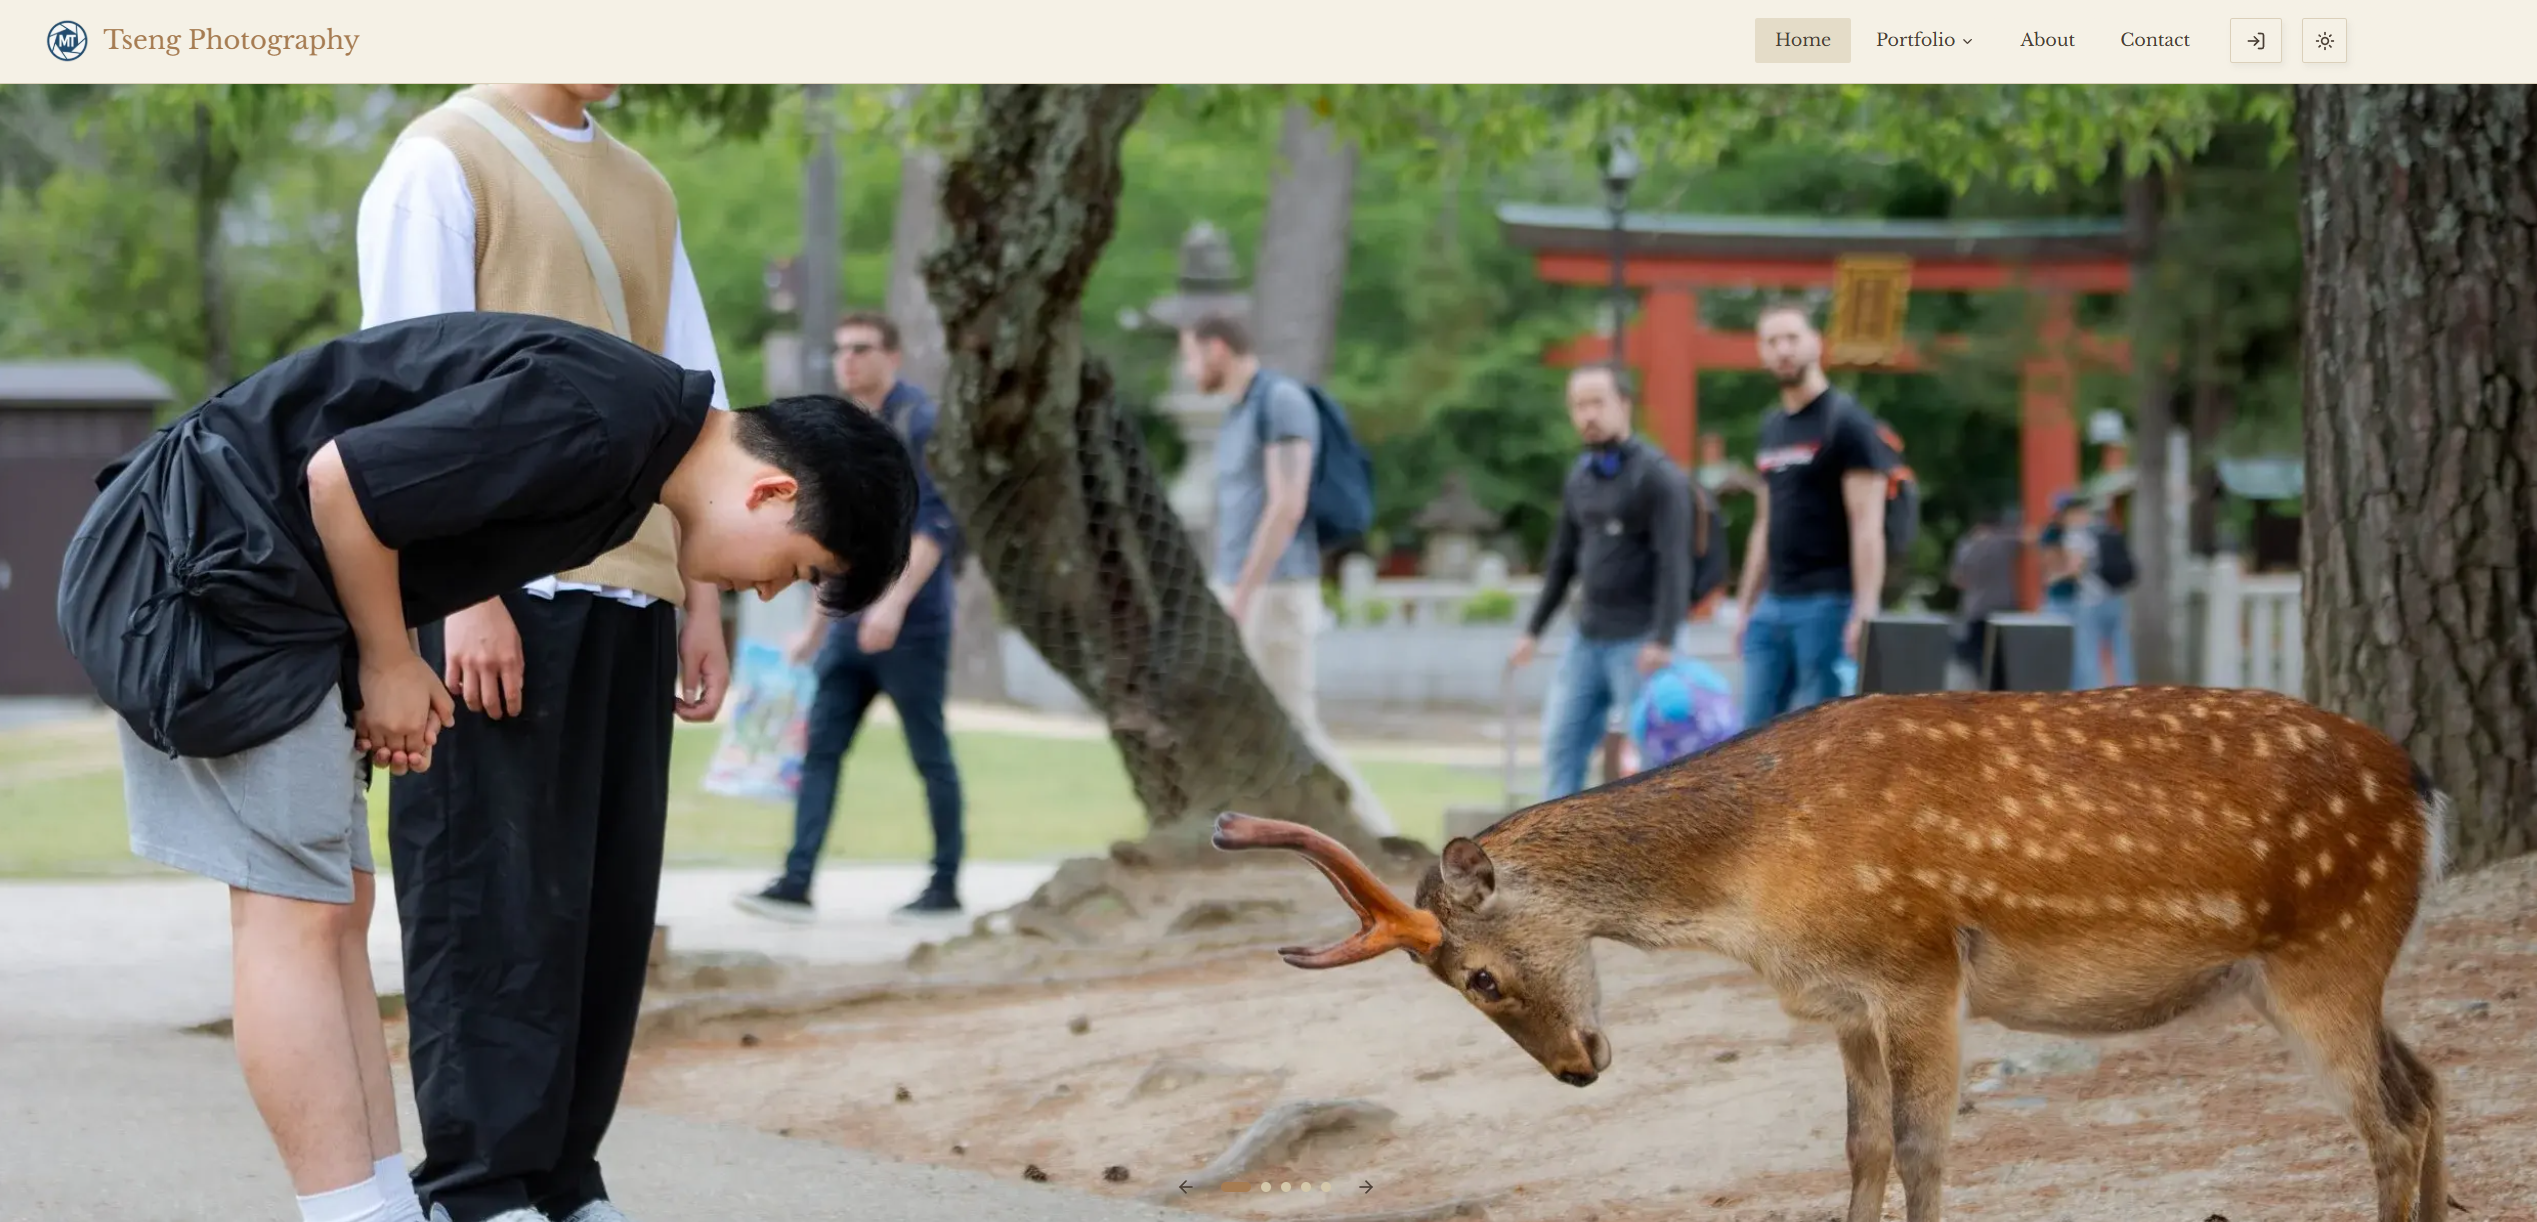
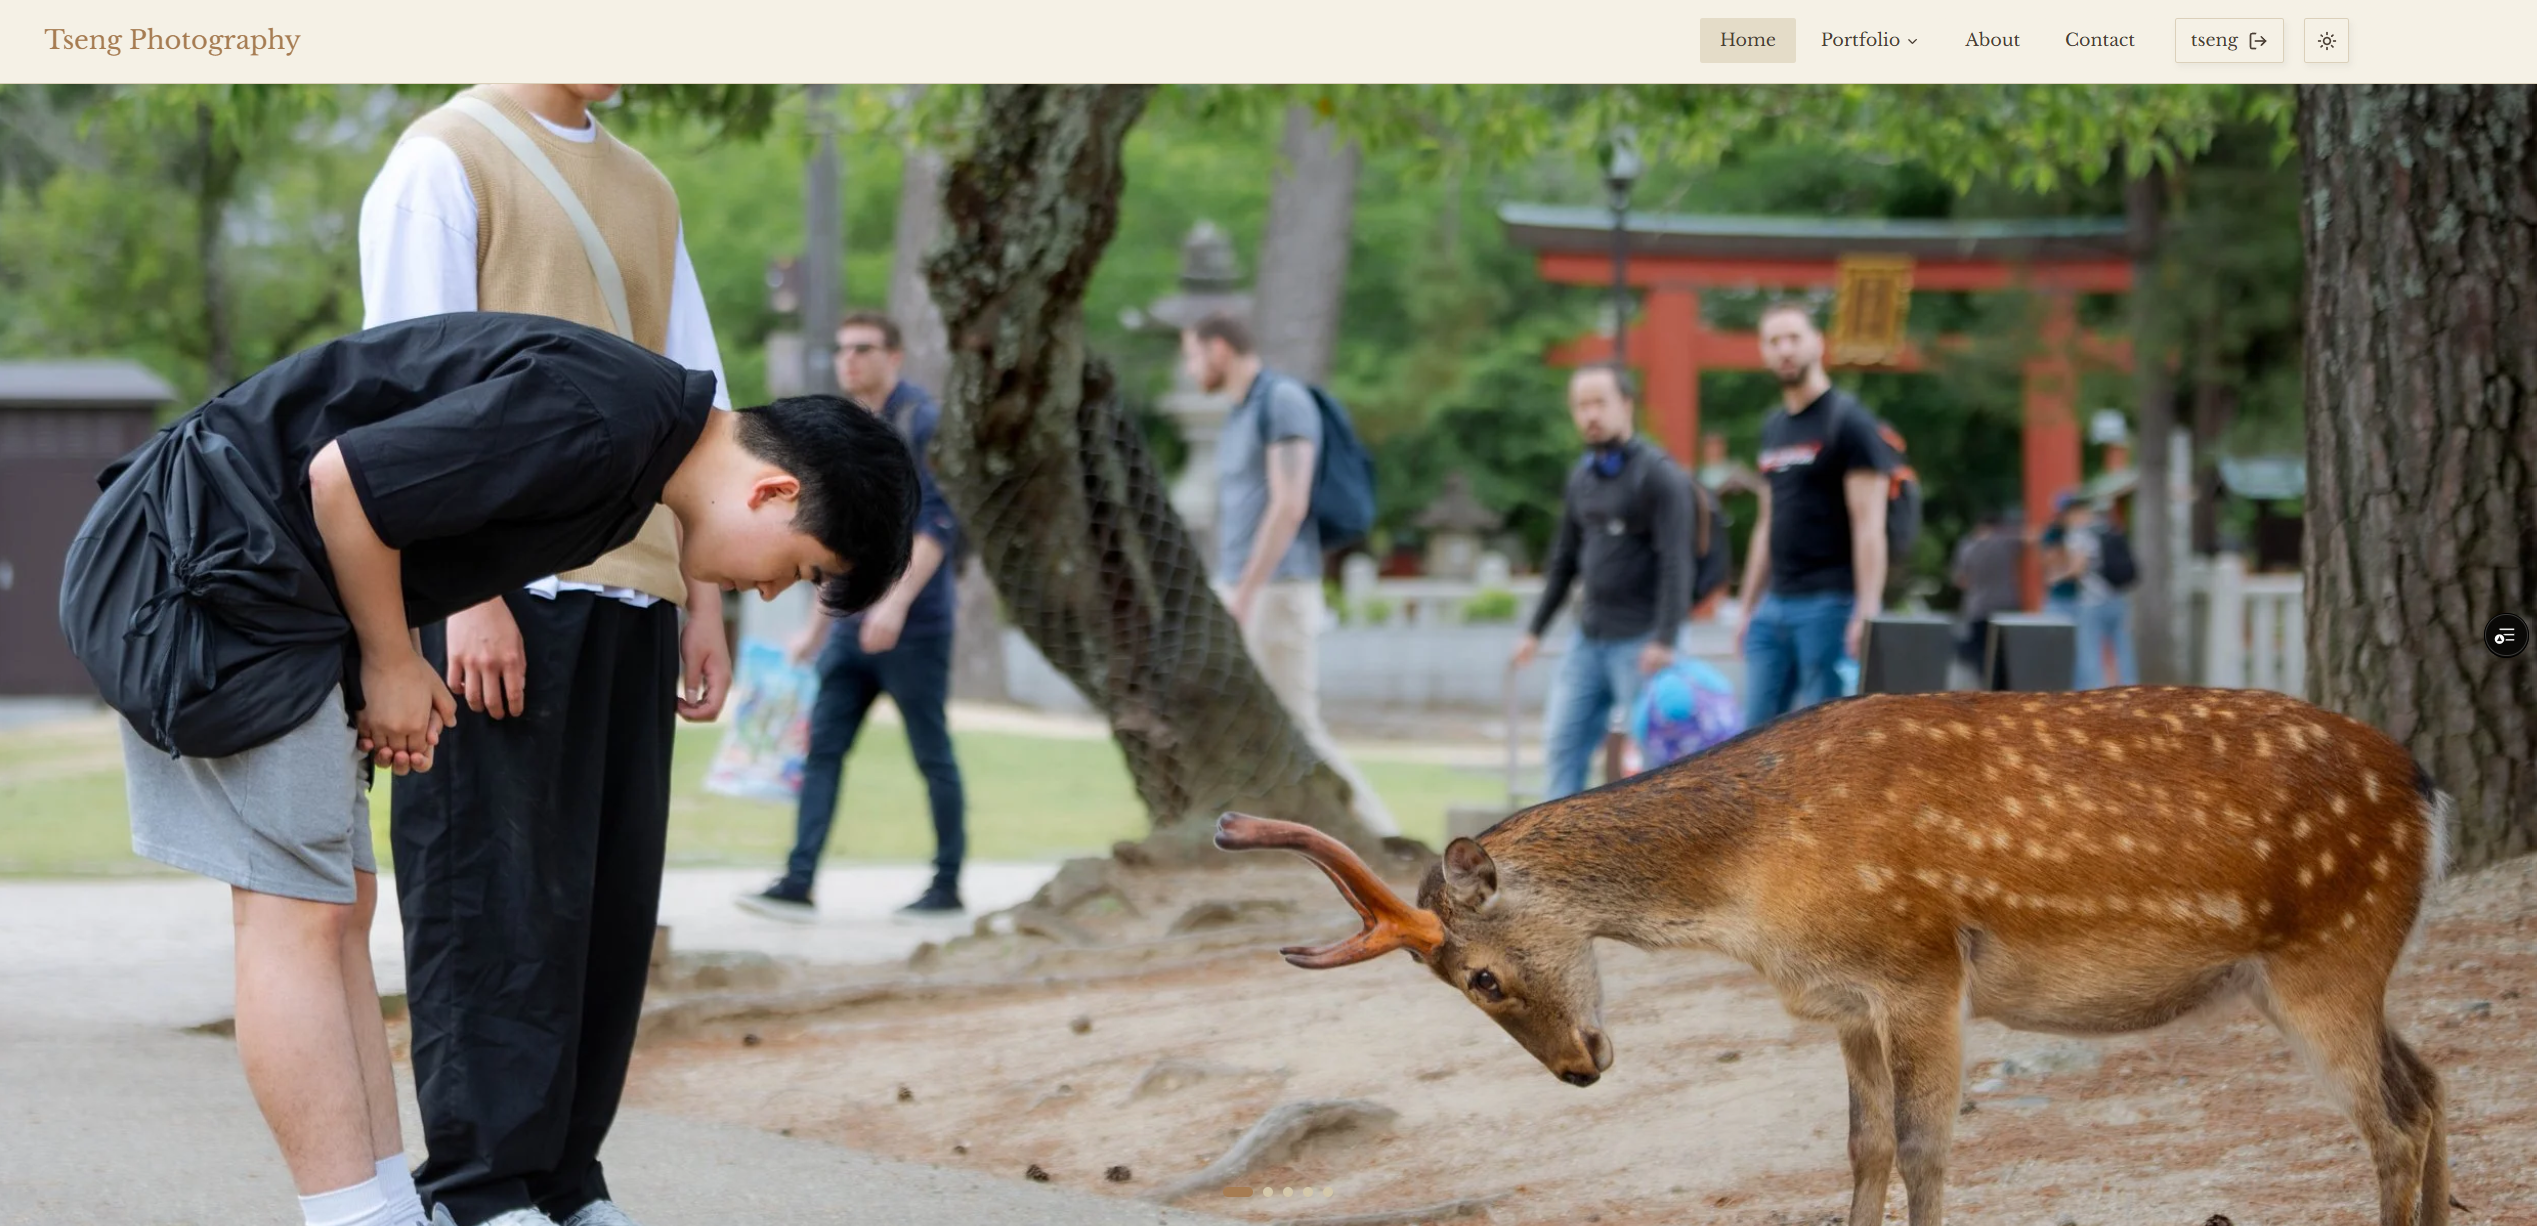
Refactor code structure for improved readability and maintainability

diff --git a/src/lib/project.ts b/src/lib/project.ts
@@ -28,7 +28,10 @@ import NextJSLogo from '@/assets/logos/next-js-svgrepo-com.svg';
 
 // import images
 import KDT from '@/assets/projects/KDT.png';
-import TsengPhoto from '@/assets/projects/tsengphoto.png';
+import tsengphoto from '@/assets/projects/tsengphoto.png';
+import tsengphoto_2 from '@/assets/projects/tsengphoto-2.png';
+import tsengphoto_3 from '@/assets/projects/tsengphoto-3.png';
+import tsengphoto_4 from '@/assets/projects/tsengphoto-4.png';
 import RM from '@/assets/projects/RM.png';
 import PC8TH from '@/assets/projects/PC8TH.png';
 import CTMS from '@/assets/projects/CTMS.png';
@@ -41,7 +44,7 @@ import NSSS from '@/assets/projects/NSSS.png';
 export interface ProjectFragmentProps {
   title: string;
   stacks?: string[];
-  imgSrc: StaticImageData;
+  images: StaticImageData[];
   description: string;
   link?: string;
   github_link?: string;
@@ -50,7 +53,7 @@ export interface ProjectFragmentProps {
 export const projects: ProjectFragmentProps[] = [
   {
     title: 'Tseng Photo',
-    imgSrc: TsengPhoto,
+    images: [tsengphoto, tsengphoto_2, tsengphoto_3, tsengphoto_4],
     description: `A professional photography portfolio and booking website built for a real client, 
         migrated from Squarespace to a fully custom solution — cutting annual costs by 88%, 
         from $280 to $35/year (the $35 being solely the domain). Every layer of the stack 
@@ -78,7 +81,7 @@ export const projects: ProjectFragmentProps[] = [
   {
     title: "KPop Dance Team's Website",
 
-    imgSrc: KDT,
+    images: [KDT],
     description: `Served as Digital Producer and lead developer for KDT @ SUO's public-facing website 
     across multiple iterations, now in its fourth major version. Architected and built 
     a custom CMS that empowers non-technical executives to independently manage 
@@ -98,7 +101,7 @@ export const projects: ProjectFragmentProps[] = [
   },
   {
     title: 'next-shadcn-supabase-starter',
-    imgSrc: NSSS,
+    images: [NSSS],
     description: `An open-source full-stack starter template designed to eliminate repetitive 
       boilerplate when starting new web projects. Ships with enterprise-grade 
       authentication via Supabase Auth, email verification, protected routes, and 
@@ -119,7 +122,7 @@ export const projects: ProjectFragmentProps[] = [
   },
   {
     title: 'Personal Website',
-    imgSrc: RM,
+    images: [RM],
     stacks: [
       NextJSLogo,
       SupabaseLogo,
@@ -137,8 +140,8 @@ export const projects: ProjectFragmentProps[] = [
     github_link: 'https://github.com/rinmeng/v4-rinmeng',
   },
   {
-    title: 'Collaborative Task Management System (CTMS)',
-    imgSrc: CTMS,
+    title: 'CTMS',
+    images: [CTMS],
     stacks: [
       HTML5Logo,
       CSS3Logo,
@@ -164,7 +167,7 @@ export const projects: ProjectFragmentProps[] = [
   {
     title: "SEACSUO's Website",
 
-    imgSrc: SEAC,
+    images: [SEAC],
     description: `
     Led the design and development of a production-ready website for the South East 
     Asian Club (SEAC) at UBC Okanagan. Beyond building the public-facing site, I 
@@ -186,7 +189,7 @@ export const projects: ProjectFragmentProps[] = [
   },
   {
     title: '3 Big Booms',
-    imgSrc: COSC416,
+    images: [COSC416],
     stacks: [UnityLogo, CSharpLogo],
     description: `A retro-style game developed in Unity for a course Game Jam under a "twist" theme. 
       Our team reimagined the classic Bomberman formula as a 2D platformer, and I owned 
@@ -197,7 +200,7 @@ export const projects: ProjectFragmentProps[] = [
   },
   {
     title: 'PHIL331 Project DCE Surveys',
-    imgSrc: PHIL331,
+    images: [PHIL331],
     stacks: [
       HTML5Logo,
       CSS3Logo,
@@ -222,7 +225,7 @@ export const projects: ProjectFragmentProps[] = [
 
   {
     title: 'PC8TH',
-    imgSrc: PC8TH,
+    images: [PC8TH],
     stacks: [
       HTML5Logo,
       CSS3Logo,
@@ -242,7 +245,7 @@ export const projects: ProjectFragmentProps[] = [
   },
   {
     title: 'hikelowna',
-    imgSrc: HIKELOWNA,
+    images: [HIKELOWNA],
     stacks: [JavaLogo, AndroidStudioLogo, FirebaseLogo],
     description: `A hiking trail management app for the Kelowna area, developed as a team for 
         an Android development course. My first foray into mobile development, where 

diff --git a/src/components/ProjectsFragment.tsx b/src/components/ProjectsFragment.tsx
@@ -17,15 +17,21 @@ import {
 } from '@/components/ui/dialog';
 import { Badge } from '@/components/ui/badge';
 import { ScrollArea } from '@/components/ui/scroll-area';
-import { ArrowRight, ExternalLink } from 'lucide-react';
+import {
+  ArrowRight,
+  ExternalLink,
+  Info,
+  SquareArrowOutUpRight,
+} from 'lucide-react';
 import React, { useState } from 'react';
 import Link from 'next/link';
 import Image from 'next/image';
 import { projects, ProjectFragmentProps } from '@/lib/project';
+import { PhotoCarousel } from '@/components/PhotoCarousel';
 
 const ProjectCard: React.FC<
   ProjectFragmentProps & { onMoreInfo: () => void }
-> = ({ title, imgSrc, description, stacks, onMoreInfo }) => {
+> = ({ title, images, description, link, stacks, onMoreInfo }) => {
   const maxVisibleStacks = 4;
   const visibleStacks = stacks?.slice(0, maxVisibleStacks) || [];
   const remainingCount = stacks ? stacks.length - maxVisibleStacks : 0;
@@ -38,11 +44,11 @@ const ProjectCard: React.FC<
 
   return (
     <Card className='flex flex-col h-full gap-0'>
-      <CardContent className='p-4'>
+      <CardContent>
         <AspectRatio ratio={16 / 9} className='mb-4'>
           <Image
             className='h-full w-full object-cover rounded-md'
-            src={imgSrc}
+            src={images[0]}
             alt={title}
             width={1920}
             height={1080}
@@ -77,10 +83,21 @@ const ProjectCard: React.FC<
         )}
       </CardContent>
 
-      <CardFooter className='mt-auto pt-0 px-4'>
-        <Button variant='default' className='w-full' onClick={onMoreInfo}>
+      <CardFooter className='flex justify-center items-center gap-2'>
+        <Button className='w-1/2' variant='secondary' onClick={onMoreInfo}>
+          <Info />
           More info
         </Button>
+        {link && (
+          <Button
+            className='w-1/2 cursor-pointer'
+            variant='default'
+            onClick={() => window.open(link)}
+          >
+            <SquareArrowOutUpRight />
+            View Project
+          </Button>
+        )}
       </CardFooter>
     </Card>
   );
@@ -150,16 +167,28 @@ const ProjectsFragment: React.FC<{ limitDisplay?: boolean }> = ({
 
               <ScrollArea className='flex-1 min-h-0'>
                 <div className='px-6 py-6 space-y-4'>
-                  <AspectRatio ratio={16 / 9} className='mb-4'>
-                    <Image
-                      className='h-full w-full object-cover rounded-md'
-                      src={selectedProject.imgSrc}
-                      alt={selectedProject.title}
-                      width={1920}
-                      height={1080}
-                      style={{ objectFit: 'cover' }}
+                  {selectedProject.images.length > 1 ? (
+                    <PhotoCarousel
+                      images={selectedProject.images}
+                      itemsToShow={1}
+                      navigation='below'
+                      showButtons={true}
+                      showDots={true}
+                      autoplayDelay={3000}
+                      containerClassName='aspect-video'
+                      btnVariant='outline'
+                      objectFit='contain'
                     />
-                  </AspectRatio>
+                  ) : (
+                    <div className='relative aspect-video w-full'>
+                      <Image
+                        src={selectedProject.images[0]}
+                        alt={`Image 1`}
+                        fill
+                        className='rounded-md object-contain'
+                      />
+                    </div>
+                  )}
 
                   {selectedProject.stacks &&
                     selectedProject.stacks.length > 0 && (

diff --git a/src/components/PhotoCarousel.tsx b/src/components/PhotoCarousel.tsx
@@ -77,18 +77,18 @@ export function PhotoCarousel({
     >
       <Carousel
         setApi={setApi}
-        className={cn('w-full', navigation === 'below' && 'pb-16')}
+        className={cn('w-full', navigation === 'below' && '')}
         opts={carouselOpts}
         plugins={plugins}
       >
         <CarouselContent
-          className={itemsToShow === 1 ? 'ml-0' : '-ml-2 md:-ml-4'}
+          className={itemsToShow === 1 ? '-ml-4' : '-ml-2 md:-ml-4'}
         >
           {images.map((src, index) => (
             <CarouselItem
               key={index}
               className={cn(
-                itemsToShow === 1 ? 'pl-0' : 'pl-2 md:pl-4',
+                itemsToShow === 1 ? 'pl-4' : 'pl-2 md:pl-4',
                 itemBasisClass,
               )}
             >
@@ -103,9 +103,10 @@ export function PhotoCarousel({
                     src={src}
                     alt={`Image ${index + 1}`}
                     fill
-                    className={
-                      objectFit === 'cover' ? 'object-cover' : 'object-contain'
-                    }
+                    className={cn(
+                      'rounded-md',
+                      objectFit === 'cover' ? 'object-cover' : 'object-contain',
+                    )}
                     style={{ objectPosition }}
                   />
                 </div>
@@ -121,11 +122,12 @@ export function PhotoCarousel({
                       src={src}
                       alt={`Image ${index + 1}`}
                       fill
-                      className={
+                      className={cn(
+                        'rounded-md',
                         objectFit === 'cover'
                           ? 'object-cover'
-                          : 'object-contain'
-                      }
+                          : 'object-contain',
+                      )}
                       style={{ objectPosition }}
                     />
                   </CardContent>
